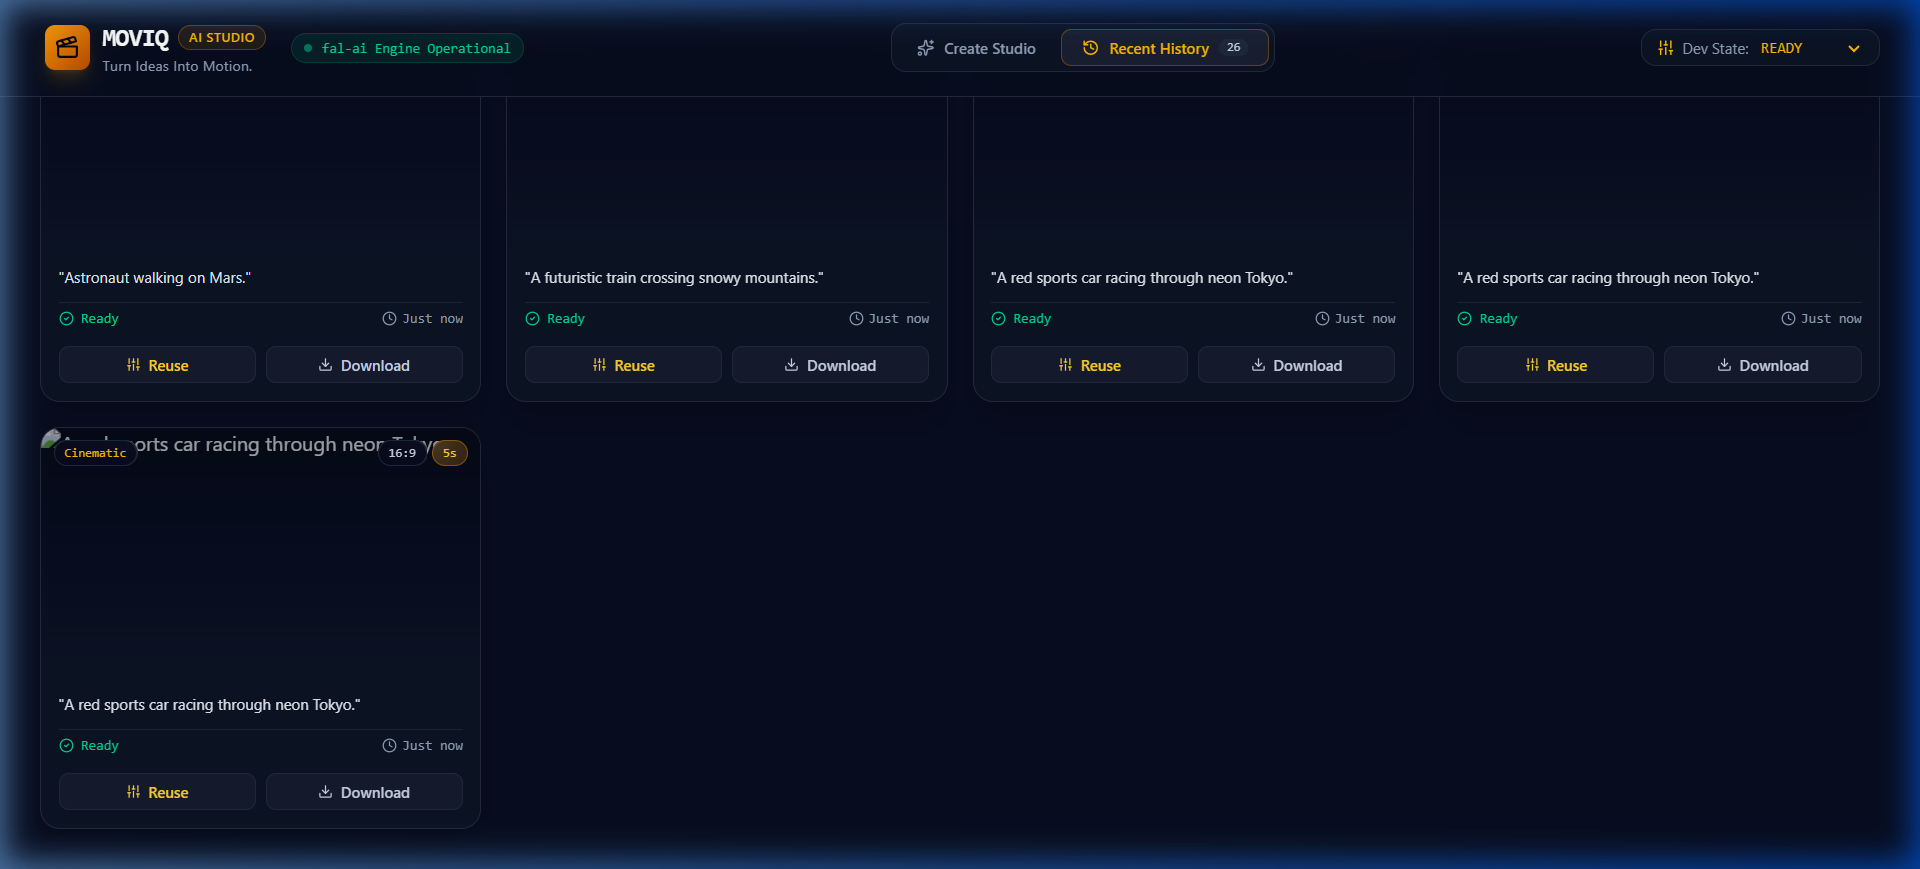
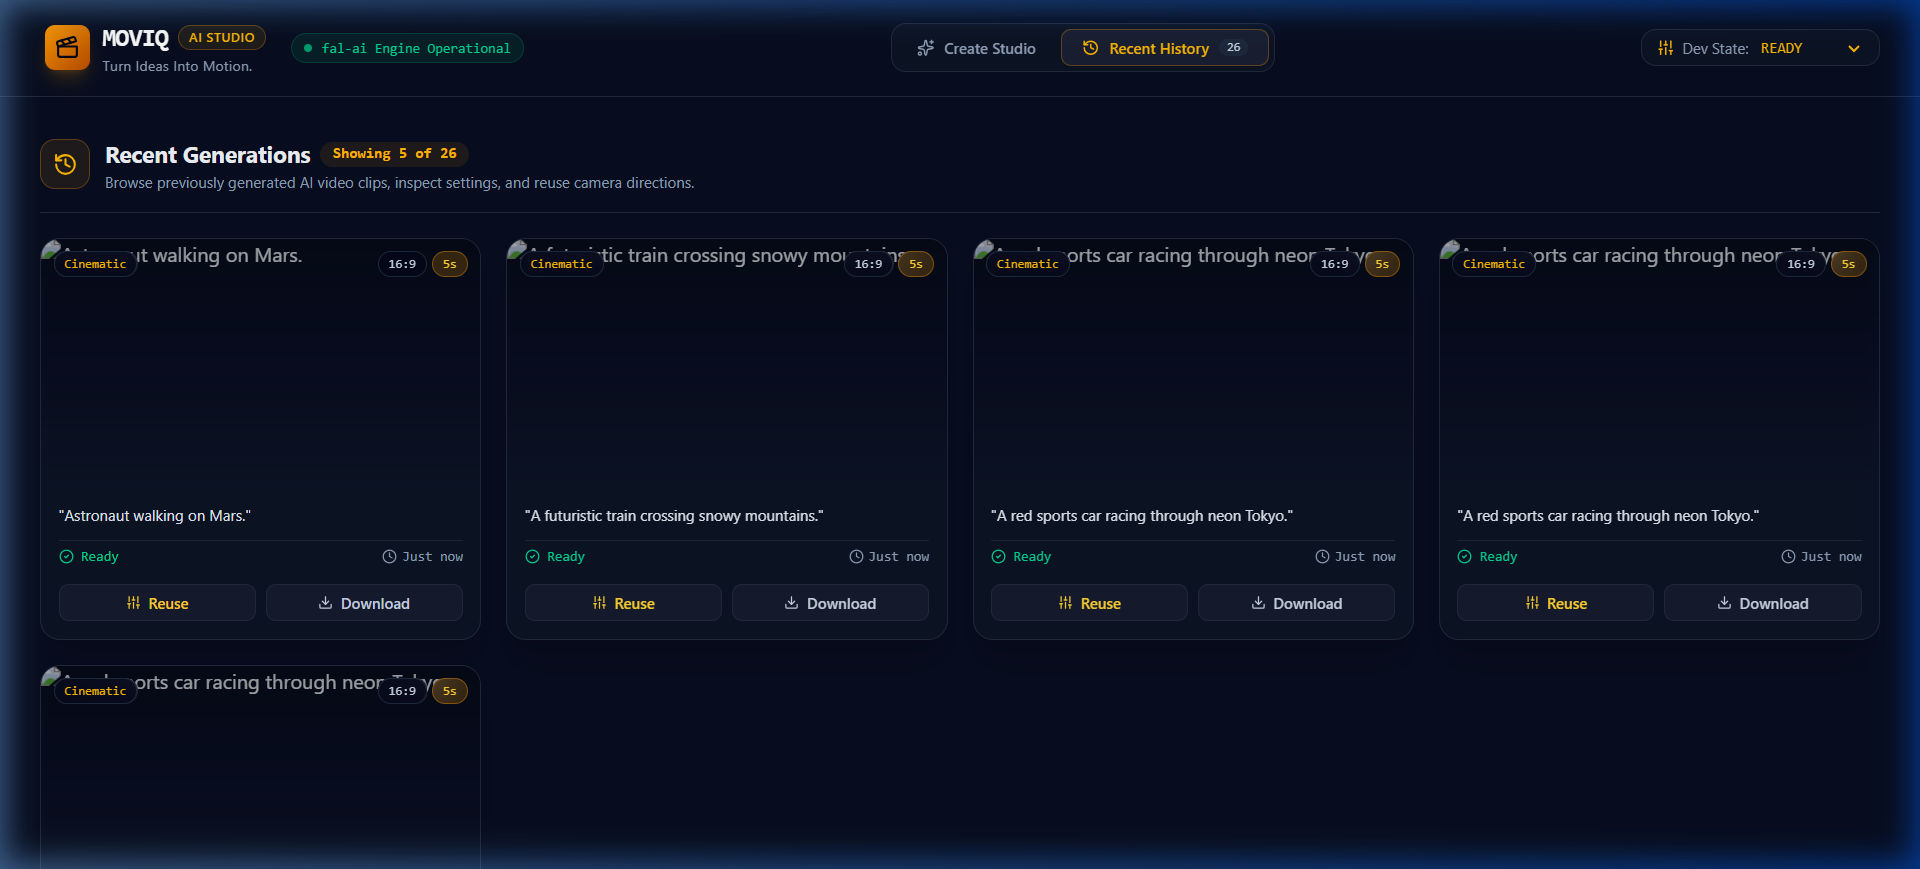
docs(readme): integrate live demo showcase, CTA badges, and screenshot gallery

diff --git a/README.md b/README.md
@@ -17,15 +17,29 @@
 
 ---
 
+## 🎥 Live Demo Showcase
+
+<p align="center">
+  <img src="demo-assets/create_studio.png" alt="Moviq Studio Interface" width="90%" style="border-radius: 8px;">
+</p>
+
+<p align="center">
+  <a href="https://github.com/rzvn6660/Moviq/releases/tag/v3.1.0"><img src="https://img.shields.io/badge/%F0%9F%8E%A5_Watch_Full_Demo-Release_Assets-blue?style=for-the-badge" alt="Watch Full Demo"></a>
+  &nbsp;&nbsp;
+  <a href="docs/DEVELOPER_QUICKSTART.md"><img src="https://img.shields.io/badge/%F0%9F%93%96_Documentation-Quickstart-emerald?style=for-the-badge" alt="Documentation"></a>
+</p>
+
+---
+
 ## 📌 Overview
 
-**Moviq** is an open-source AI video generation studio designed around a provider-independent backend architecture. It unifies commercial AI cloud engines (Kie Kling 3.0, Veo 3.1, Luma Dream Machine, MiniMax Hailuo) and open-source diffusion models (Hugging Face Wan 2.2, Remote Wan, LTX Video) behind a single FastAPI service layer.
+**Moviq** is an open-source AI video generation studio designed around a provider-independent backend architecture. It unifies commercial cloud AI engines (Kie Kling 3.0, Veo 3.1, Luma Dream Machine, MiniMax Hailuo) and open-source diffusion models (Hugging Face Wan 2.2, Remote Wan, LTX Video) behind a single FastAPI service layer.
 
 Instead of managing fragmented APIs and silent polling failures, Moviq provides live provider health telemetry, a rule-based AI prompt recommendation engine, optional transparent smart failover, a 13-stage microsecond event timeline, and defensive computer vision motion validation using OpenCV.
 
 ---
 
-## ✨ Features by Category
+## ✨ Key Features
 
 ### 🤖 AI Features
 - **AI Director Prompt Enhancer**: Structural prompt decomposition (Subject, Environment, Action, Camera, Lighting, Mood) powered by Groq LLM with offline mock fallback.
@@ -47,7 +61,7 @@ Instead of managing fragmented APIs and silent polling failures, Moviq provides 
 
 ---
 
-## 🏗 Architecture
+## 🏗 System Architecture
 
 ```mermaid
 flowchart TD
@@ -88,20 +102,19 @@ flowchart TD
 
 ---
 
-## 🖼 Interface Showcase
+## 🖼 Screenshot Gallery
 
-<table width="100%">
-  <tr>
-    <td width="50%" align="center">
-      <b>Create Studio Workspace</b><br>
-      <img src="demo-assets/create_studio.png" alt="Create Studio Workspace" width="100%">
-    </td>
-    <td width="50%" align="center">
-      <b>Recent Generation History</b><br>
-      <img src="demo-assets/recent_history.png" alt="Recent Generation History" width="100%">
-    </td>
-  </tr>
-</table>
+#### 1. Create Studio Workspace
+Prompt composer with style presets, aspect ratio selectors, AI Director drawer, and model recommendations.
+![Create Studio Workspace](demo-assets/create_studio.png)
+
+#### 2. Provider Operations Telemetry Dashboard
+Real-time latency ping gauges, authentication status, queue status, and benchmark metrics for all 6 provider nodes.
+![Provider Operations Dashboard](demo-assets/provider_health.png)
+
+#### 3. Recent Generation History & Favorites
+Auto-generated thumbnails, prompt search filters, status filters, star favorites, and direct MP4 downloads.
+![Recent Generation History](demo-assets/recent_history.png)
 
 ---
 
@@ -133,6 +146,17 @@ Open **`http://localhost:5173`** in your browser.
 
 ---
 
+## 📡 API Overview
+
+- `GET /api/v1/providers/health`: Returns live telemetry for all 6 provider nodes (45s TTL cache).
+- `POST /api/v1/providers/recommend`: Rule-based semantic prompt recommendation.
+- `POST /api/v1/generations`: Submits video generation task (supports `Idempotency-Key` header).
+- `GET /api/v1/generations/{id}`: Returns progress, status, and download links.
+- `GET /api/v1/generations/{id}/events`: Returns 13-stage microsecond audit events timeline.
+- `GET /api/v1/generations/{id}/download`: Streams verified H.264 MP4 file with `Content-Disposition`.
+
+---
+
 ## 📂 Project Structure
 
 ```text
@@ -156,7 +180,7 @@ Moviq/
 
 ---
 
-## 📚 Documentation Links
+## 📚 Documentation Index
 
 - 🏛 [Architecture Guide](docs/ARCHITECTURE.md)
 - 📊 [Provider Matrix Reference](docs/PROVIDER_MATRIX.md)
@@ -168,7 +192,7 @@ Moviq/
 
 ---
 
-## ⚠ Known Limitations & Roadmap
+## ⚠ Limitations & Roadmap
 
 ### Limitations
 - **Health Cache**: Uses an in-memory 45-second TTL cache (suited for single instances; Redis recommended for multi-worker clusters).
